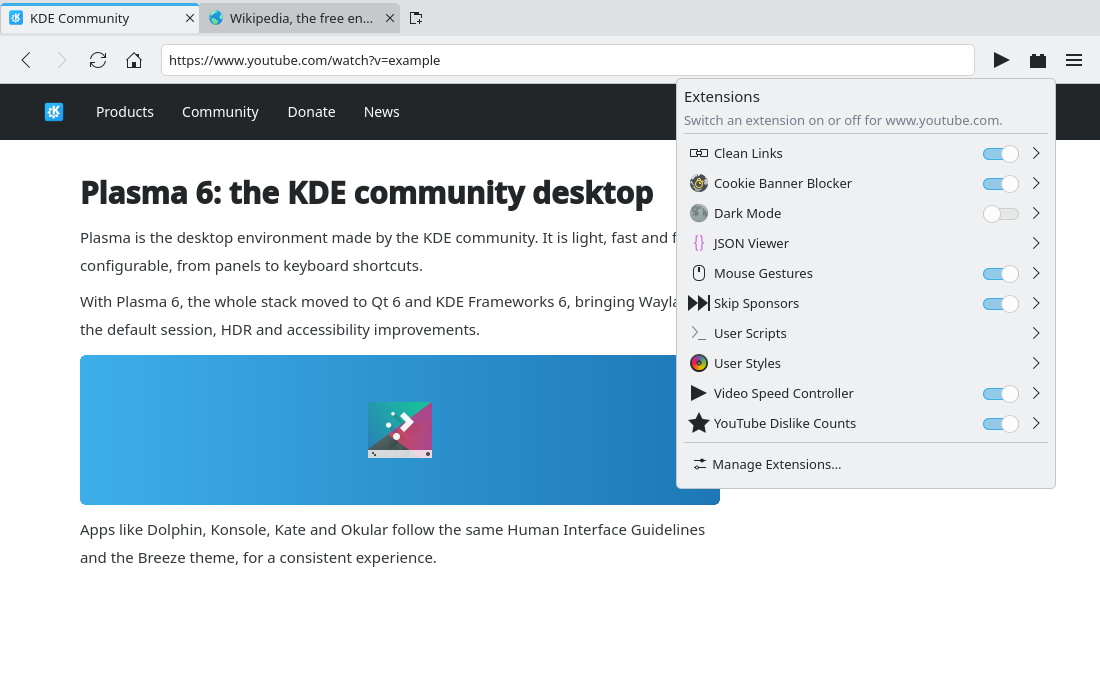
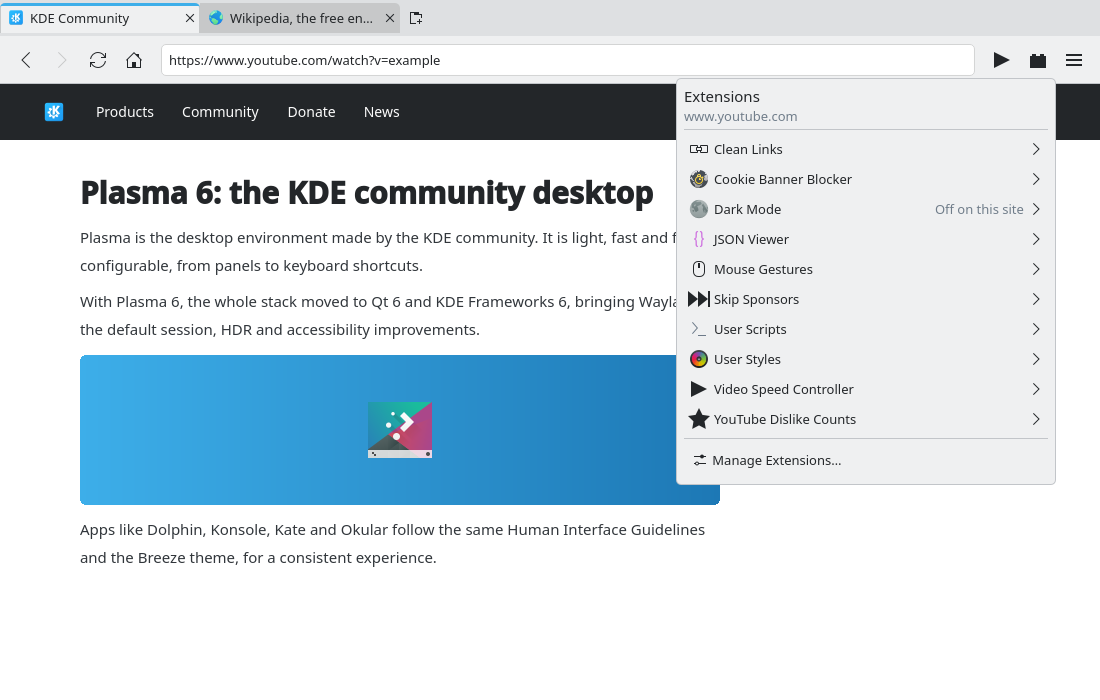
docs: move the site switch to level 2 of the extensions panel (#183)

diff --git a/prototypes/common/ExtensionsPanelMock.qml b/prototypes/common/ExtensionsPanelMock.qml
@@ -1,4 +1,4 @@
-// The toolbar Extensions panel: one row per extension (switch for this site, drill-down to its actions).
+// The toolbar Extensions panel: one row per extension ("Off on this site" when off), drill-down to its actions.
 import QtQuick
 import QtQuick.Controls
 import QtQuick.Layouts
@@ -22,6 +22,8 @@ Popup {
         required property var modelData
         width: ListView.view.width
         padding: Kirigami.Units.smallSpacing
+        Accessible.name: row.modelData.siteToggle && !row.modelData.on
+                         ? row.modelData.name + ", off on " + root.host : row.modelData.name
         contentItem: RowLayout {
             spacing: Kirigami.Units.smallSpacing
             Kirigami.Icon {
@@ -30,14 +32,10 @@ Popup {
                 Layout.preferredHeight: Kirigami.Units.iconSizes.smallMedium
             }
             Label { text: row.modelData.name; elide: Text.ElideRight; Layout.fillWidth: true }
-            Switch {
-                visible: row.modelData.siteToggle
-                checked: row.modelData.on
-                Accessible.name: "Run " + row.modelData.name + " on " + root.host
-            }
-            Item {
-                visible: !row.modelData.siteToggle
-                Layout.preferredWidth: Kirigami.Units.gridUnit * 2
+            Label {
+                visible: row.modelData.siteToggle && !row.modelData.on
+                text: "Off on this site"
+                color: Kirigami.Theme.disabledTextColor
             }
             Kirigami.Icon {
                 source: "go-next"
@@ -52,15 +50,10 @@ Popup {
         ColumnLayout {
             visible: root.showList
             spacing: Kirigami.Units.smallSpacing
-            RowLayout {
-                spacing: Kirigami.Units.largeSpacing
-                Kirigami.Heading { level: 4; text: "Extensions"; Layout.fillWidth: true }
-            }
-            Label {
-                Layout.fillWidth: true
-                wrapMode: Text.WordWrap
-                color: Kirigami.Theme.disabledTextColor
-                text: "Switch an extension on or off for " + root.host + "."
+            ColumnLayout {
+                spacing: 0
+                Kirigami.Heading { level: 4; text: "Extensions" }
+                Label { text: root.host; color: Kirigami.Theme.disabledTextColor }
             }
             Kirigami.Separator { Layout.fillWidth: true }
             ScrollView {

diff --git a/prototypes/183-extensions-panel.qml b/prototypes/183-extensions-panel.qml
@@ -1,4 +1,4 @@
-// #183 Extensions panel — level 1 with ten extensions: one row each, switch for this site, drill-down.
+// #183 Extensions panel — level 1 with ten extensions: one row each, "Off on this site" only when off, drill-down.
 import QtQuick
 import QtQuick.Controls
 import "common"

diff --git a/.claude/skills/kde-ux/references/decisions.md b/.claude/skills/kde-ux/references/decisions.md
@@ -11,7 +11,8 @@ Add a row whenever a design is rejected in review or a UX bug is filed.
 | #177 | A blocking import: the Import button looked stuck | Background work with a determinate `ProgressBar` ("%1 of %2 sites") | Show progress for anything longer than 1 s, and never freeze the UI |
 | #183 | A flat Extensions menu with every item of every extension | A two-level panel: one row per extension (switch for this site, arrow), its actions on level 2, and pinned extensions in the toolbar | 10 extensions made 40+ rows, and the menu closed after each action |
 | #183 | A pin button on every row of the extension list | Pin / Unpin on level 2, as a button whose icon and text change | Ten identical icons for a rare action |
-| #183 | A status icon or a "Running on this site" subtitle | A `Switch` per row with an accessible name | The icon alone was ambiguous; the subtitle doubled the row height; the switch shows the state and changes it |
+| #183 | A status icon or a "Running on this site" subtitle | Text, only for the exception | The icon alone was ambiguous; the subtitle doubled the row height |
+| #183 | A `Switch` on every row of the extension list | The switch on level 2; level 1 shows "Off on this site" only when off | Ten switches made the list noisy; showing only the exception keeps the state visible with no clutter |
 | #179 | Extension names in the Extensions menu as disabled `MenuItem`s (greyed out), with no line between extensions | A non-interactive section header: icon and bold name in the normal text color, a separator line, and `Accessible.role: Accessible.Heading` | A disabled item means "not available now"; groups must read as separate blocks |
 | #180 | Toggling "Run on <host>" reloads the page at once | Save, then offer **Reload** in the `InlineBar` | Do not throw away what the user typed; the user decides when to reload |
 | #181 | The colorful category icon `preferences-plugin` on a toolbar button | The monochrome action icon `plugins` | Toolbar and menu icons are monochrome action icons that follow the color scheme |
